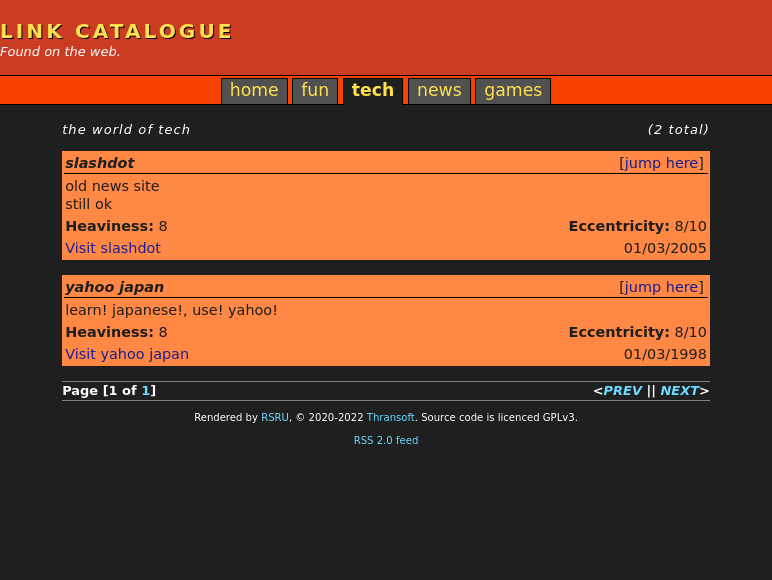
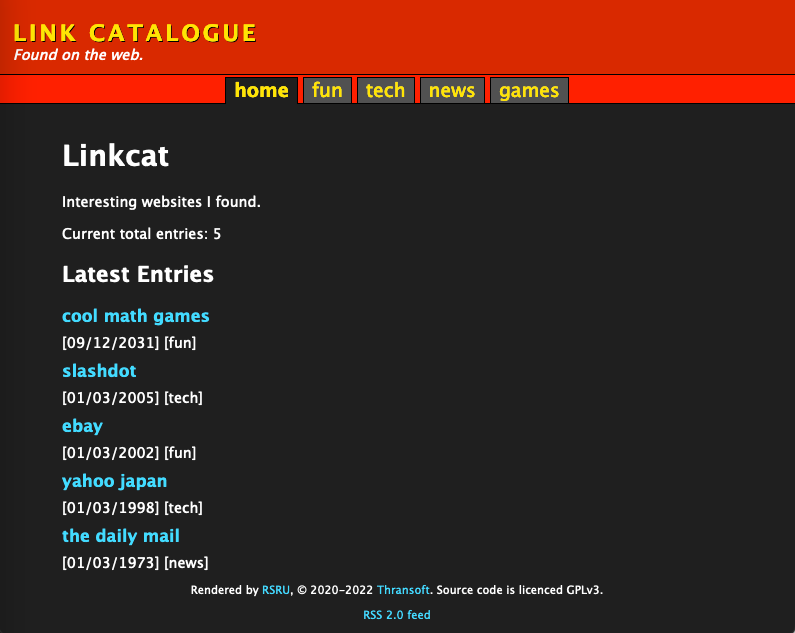
fixes to layouts and others I forgot

diff --git a/tpl/linkcat/rsru_entry.html b/tpl/linkcat/rsru_entry.html
@@ -10,7 +10,7 @@
                 <td class="ecc" title="Eccentricity" colspan="1"><b>Eccentricity:</b> {% ecc %}/10</td>
             </tr>
             <tr>
-                <td class="siteUrl" colspan="1"><a href="{% url %}" target="_blank">Visit {% title %}</a></td>
                 <td class="date" title="Submission date"> {% date %}</td>
+                <td class="siteUrl" colspan="1"><a href="{% url %}" target="_blank">Visit {% title %}</a></td>
             </tr>
             </table>

diff --git a/tpl/linkcat/rsru_entry_img.html b/tpl/linkcat/rsru_entry_img.html
@@ -17,7 +17,7 @@
                 <td class="ecc" title="Eccentricity" colspan="1"><b>Eccentricity:</b> {% ecc %}/10</td>
             </tr>
             <tr>
-                <td class="siteUrl" colspan="1"><a href="{% url %}" target="_blank">Visit {% title %}</a></td>
                 <td class="date" title="Submission date"> {% date %}</td>
+                <td class="siteUrl" colspan="1"><a href="{% url %}" target="_blank">Visit {% title %}</a></td>
             </tr>
             </table>

diff --git a/tpl/common/rsru_hp_entry.html b/tpl/common/rsru_hp_entry.html
@@ -1,2 +1,2 @@
-<h3 class="entryName">{% ENTRY_NAME %}</h3>
-<p class="entryDesc">{% ENTRY_DESC %} [{% ENTRY_DATE %}] [<a href="{% ENTRY_CAT_URL %}">{% ENTRY_CAT %}</a>]</p>
+<h3 class="entryName"><a href="{% ENTRY_CAT_URL %}">{% ENTRY_NAME %}</a></h3>
+<p class="entryDesc">{% ENTRY_DESC %} [{% ENTRY_DATE %}] [{% ENTRY_CAT %}]</p>

diff --git a/tpl/linkcat/static/rsru.css b/tpl/linkcat/static/rsru.css
@@ -206,12 +206,12 @@ table.rsru .ecc {
 
 table.rsru .siteUrl {
     height: 1.2em;
-    text-align: left;
+    text-align: right;
     vertical-align: bottom;
 }
 
 table.rsru .date {
-    text-align: right;
+    text-align: left;
     vertical-align: bottom;
 }
 

diff --git a/README.md b/README.md
@@ -84,3 +84,5 @@ What are the directories and what is inside each?
 
 ![RSRU Screenshot](misc/blandblog.png)
 
+![RSRU Screenshot](misc/linkcat.png)
+
